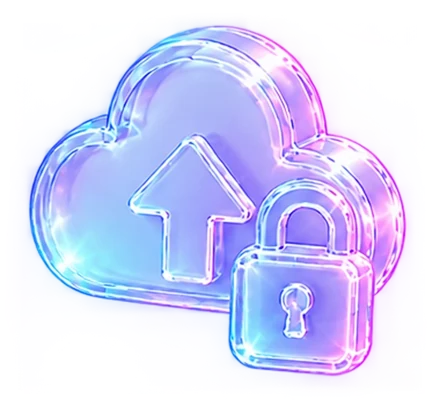
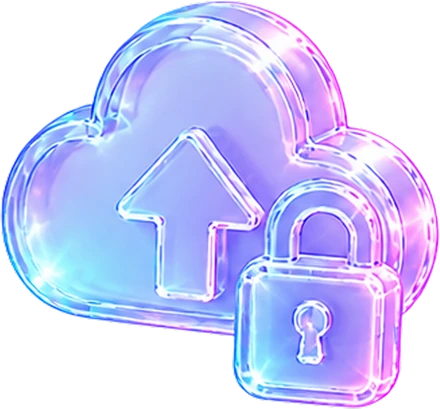
Crisp illustrations, a clean hero, a raised card in dark, and a phone fit
The data illustrations are the new versions, cropped to the art with
their edges left crisp. The hero loses the navy shade behind its words;
instead the wave fades out behind the column of text and returns beside
it, so the words keep their contrast (worst 4.6:1 across the loop). A
chosen step card takes --card-raised, the app's surfaceAlt in dark, so
it lifts off the band. On phones the number row fits the column (40px
circles, 36px arrows) and the card no longer runs off the screen.

diff --git a/index.html b/index.html
@@ -54,6 +54,7 @@
     --income: #0A6A3B;      /* income */
     --pink-soft: #D42D971A; /* pigPink at a fill's weight, as incomeSoft is */
     --pink-ink: #A82278;    /* pigPinkDark: pink for words and small marks, 5.5:1 on the page */
+    --card-raised: #FFFFFF; /* a card lifted off a card-coloured band; surfaceAlt in dark */
     --pink-strong: #A82278; /* pigPinkDark, a solid button pressed or hovered */
     --on-pink: #FFFFFF;     /* textInverse, words on a pink fill */
     --overlay: #1B1E3859;   /* overlay, the app's scrim; here the shadow under a card you can click */
@@ -79,7 +80,7 @@
       --card: #3A4066;
       --line: #FFFFFF24; --line-strong: #FFFFFF73;
       --ink: #FFFFFF; --ink-dim: #FFFFFFCC; --ink-muted: #FFFFFFA6;
-      --pink: #F45FC0; --income: #3FDE85; --pink-soft: #F45FC024; --pink-ink: #FF9AD5; --pink-strong: #D6389C; --on-pink: #1B1E38; --overlay: #0E1024BF;
+      --pink: #F45FC0; --income: #3FDE85; --pink-soft: #F45FC024; --pink-ink: #FF9AD5; --card-raised: #454C79; --pink-strong: #D6389C; --on-pink: #1B1E38; --overlay: #0E1024BF;
     }
   }
   :root[data-theme="dark"] {
@@ -87,7 +88,7 @@
     --card: #3A4066;
     --line: #FFFFFF24; --line-strong: #FFFFFF73;
     --ink: #FFFFFF; --ink-dim: #FFFFFFCC; --ink-muted: #FFFFFFA6;
-    --pink: #F45FC0; --income: #3FDE85; --pink-soft: #F45FC024; --pink-ink: #FF9AD5; --pink-strong: #D6389C; --on-pink: #1B1E38; --overlay: #0E1024BF;
+    --pink: #F45FC0; --income: #3FDE85; --pink-soft: #F45FC024; --pink-ink: #FF9AD5; --card-raised: #454C79; --pink-strong: #D6389C; --on-pink: #1B1E38; --overlay: #0E1024BF;
   }
 
   * { box-sizing: border-box; }
@@ -466,8 +467,11 @@
     border: 1px solid transparent; background: transparent;
     transition: background-color 250ms ease-out, box-shadow 250ms ease-out, border-color 250ms ease-out, transform 250ms ease-out;
   }
+  /* Chosen, the card is raised off the band it sits on: white on white is
+     told apart by its edge and shadow, and in dark it takes the app's raised
+     surface, a step lighter than the band. */
   .ot.on {
-    background: var(--card); border-color: var(--line-strong);
+    background: var(--card-raised); border-color: var(--line-strong);
     box-shadow: 0 18px 40px -20px var(--overlay), 0 2px 8px -4px var(--overlay);
     transform: translateY(-2px);
   }
@@ -555,6 +559,18 @@
     .ot-col, .ot-col.left, .ot-col.right { padding: 0; text-align: center; align-items: center; gap: 0; }
     :root.js .ot:not(.on) { display: none; }
     .ot { width: 100%; max-width: 34em; }
+    .orbit { max-width: 100%; }
+    .ot, .ot.on { padding: var(--s-md) var(--s-lg); }
+  }
+  /* On a phone the row of numbers must fit in the column: smaller circles,
+     tighter gaps, arrows a step smaller, every target still 36px or more. */
+  @media (max-width: 560px) {
+    .ot-mid { gap: var(--s-lg); }
+    .stepper { gap: 6px; margin-bottom: var(--s-md); }
+    .dots { gap: 6px; }
+    .dot { width: 40px; height: 40px; font-size: var(--t-body-app); }
+    .arrow { width: 36px; height: 36px; }
+    .ot .od > p, .ot.on .od > p { padding-left: 0; }
   }
   @media (prefers-reduced-motion: reduce) {
     .od, .ot-b, .dot, .phone-col { transition: none; }
@@ -683,15 +699,6 @@
   /* The phones take the larger share of the stage: they are the picture. */
   .stage-grid { display: grid; grid-template-columns: minmax(0, 0.72fr) minmax(0, 1fr); gap: calc(var(--s-xxl) + var(--s-lg)); align-items: center; width: 100%; }
   .stage-text { display: flex; flex-direction: column; gap: var(--s-lg); position: relative; z-index: 2; }
-  /* A soft shade of the stage's own navy behind the words, so the wave dims
-     as it passes under them and every line keeps its contrast (WCAG 1.4.3),
-     while it stays bright everywhere else. */
-  .stage-text::before {
-    content: ""; position: absolute; z-index: -1; pointer-events: none;
-    inset: -90px -140px -150px -200px;
-    background: radial-gradient(closest-side, var(--stage-bottom) 55%, transparent);
-    opacity: .92;
-  }
   .stage h1 { font-size: clamp(38px, 4.4vw, 58px); line-height: 1.05; letter-spacing: -0.02em; color: var(--stage-ink); text-wrap: balance; }
   .stage-lede { font-size: clamp(var(--t-h3), 2vw, 22px); line-height: 1.45; color: var(--stage-dim); max-width: 24em; }
   .stage-lede b { color: var(--stage-pink); font-weight: 600; }
@@ -772,7 +779,12 @@
     so the haze and the ribbon travel together as one current. Only transforms change, so it is smooth. It runs
     clear to both edges of the screen, and stands still under reduced motion.
   */
+  /* The wave fades out behind the column of words, so every line sits on the
+     stage's plain navy and keeps its contrast (WCAG 1.4.3), and comes back
+     beside them: at the far left on a wide screen, and all across the right. */
   .waves {
+    -webkit-mask-image: linear-gradient(90deg, #000 max(0px, calc(50% - 680px)), transparent max(0px, calc(50% - 600px)), transparent calc(50% - 110px), #000 calc(50% + 70px));
+            mask-image: linear-gradient(90deg, #000 max(0px, calc(50% - 680px)), transparent max(0px, calc(50% - 600px)), transparent calc(50% - 110px), #000 calc(50% + 70px));
     position: absolute; left: 0; right: 0; top: 18%; height: 78%; z-index: -1; overflow: hidden; pointer-events: none;
   }
   /* The tile keeps its own width, 4000, wider than any screen so the eye never
@@ -784,7 +796,7 @@
   .wv.near { background-image: url("art/wave-near.webp"); animation: flow 600s linear infinite reverse; }
   @keyframes flow { from { transform: translateX(0); } to { transform: translateX(-4000px); } }
   /* Stacked, the ribbons run behind the phone, not behind the words. */
-  @media (max-width: 880px) { .waves { top: auto; bottom: 4%; height: 420px; } }
+  @media (max-width: 880px) { .waves { top: auto; bottom: 4%; height: 420px; -webkit-mask-image: none; mask-image: none; } }
   @media (prefers-reduced-motion: reduce) { .wv { animation: none; } }
 
   /*
